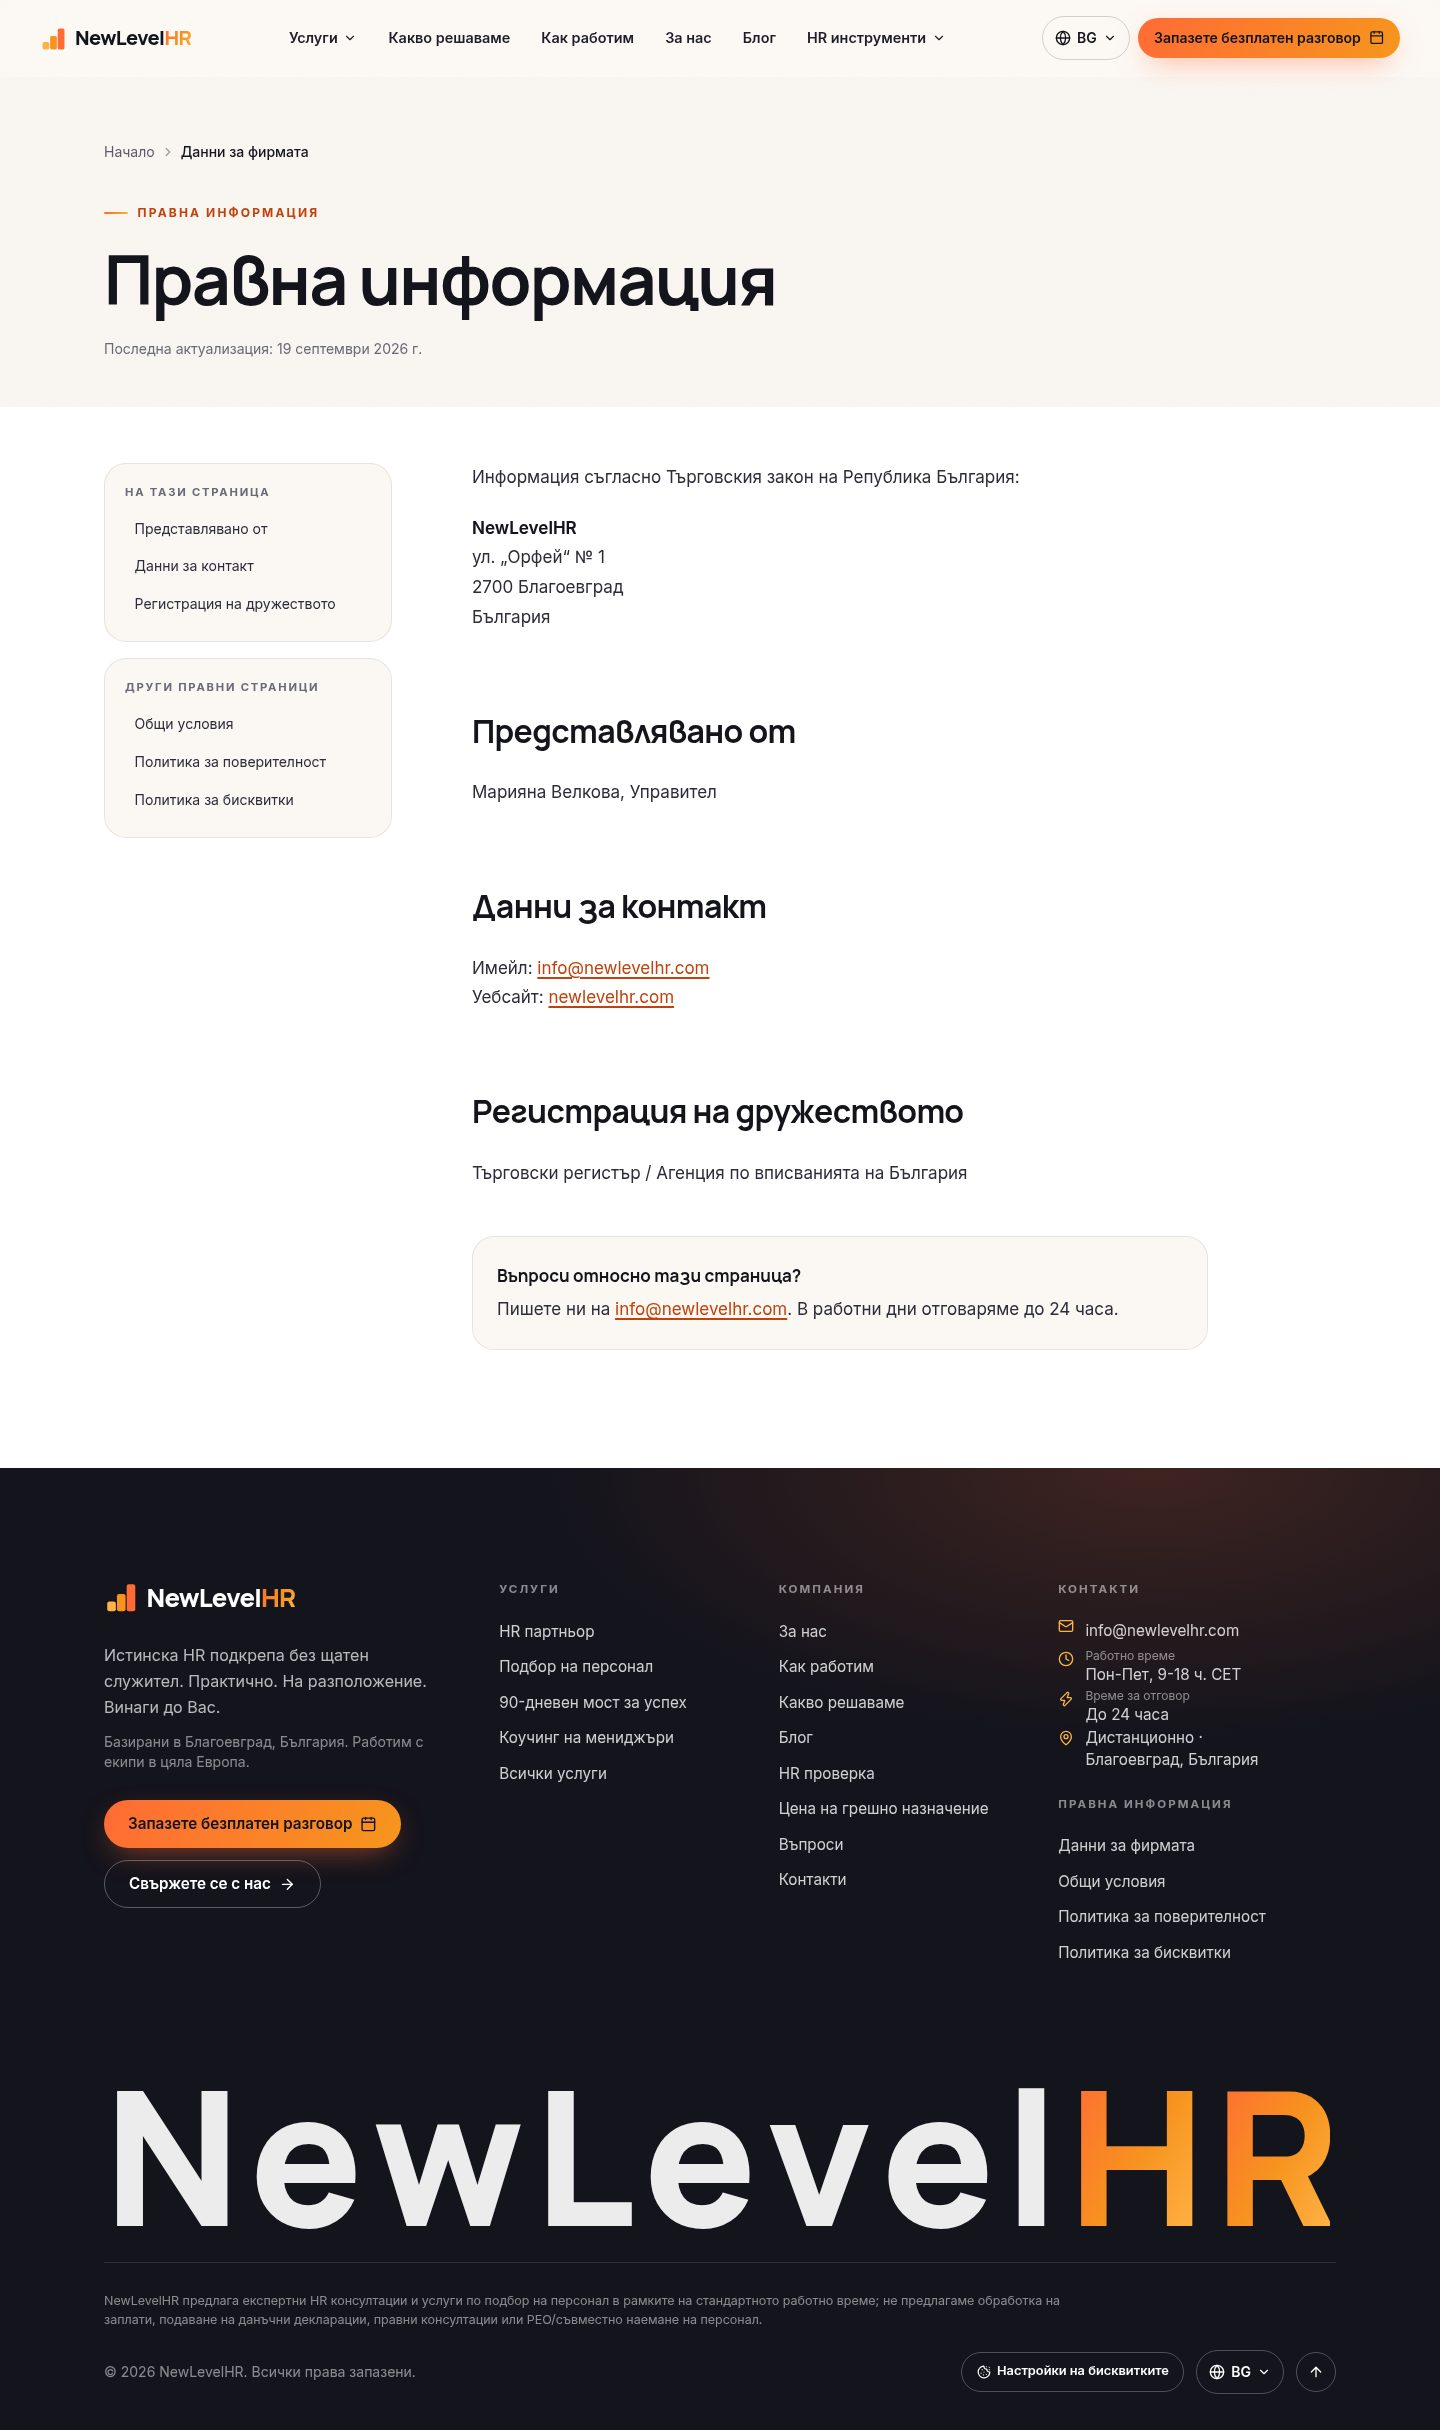
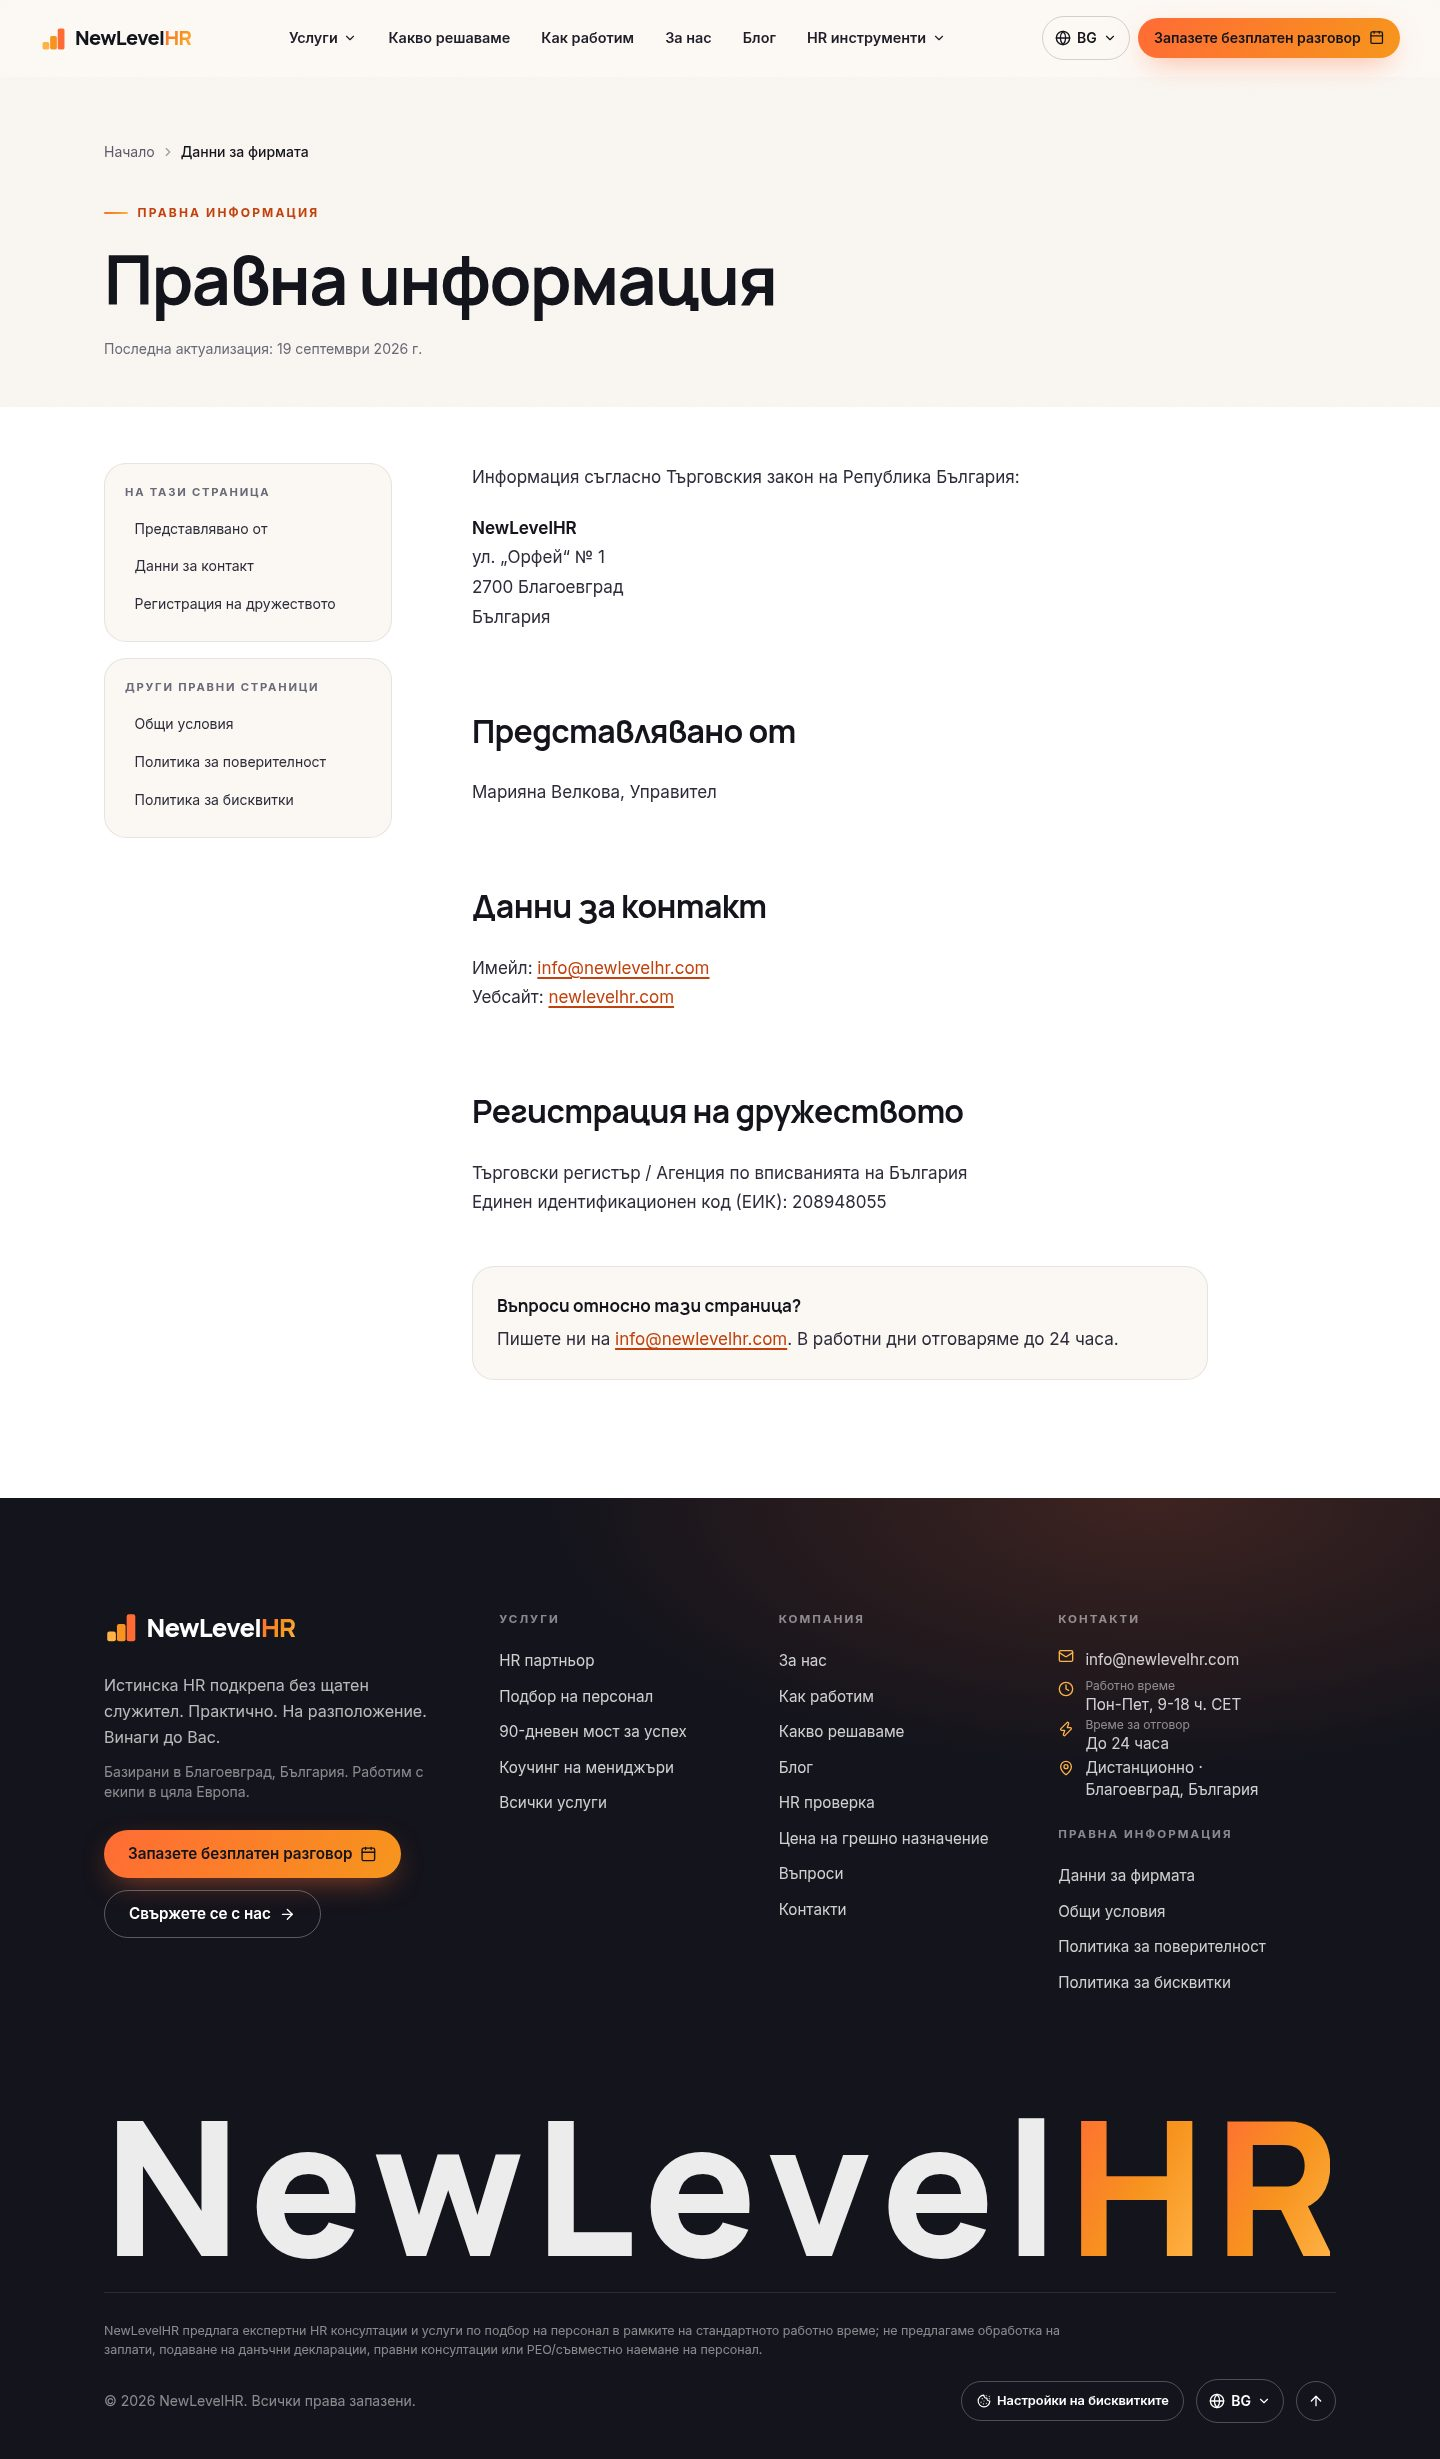
Add the company registration number and the booking calendar
The legal notice now shows the EIK in English, German and Bulgarian, and the
"last updated" date of the legal pages is moved forward.

The booking link points at the real Calendly event by default, so the
contact page embeds the calendar without any build setting. The
Content-Security-Policy in .htaccess now allows the Calendly widget
(script, style and images from assets.calendly.com); without it the
browser blocked the widget on the Apache host.

The PHP hosting notes ask for PHP 8.1, which the form endpoint needs.

diff --git a/src/config/site.ts b/src/config/site.ts
@@ -28,7 +28,7 @@ export const site = {
    * at the Calendly event itself (https://calendly.com/<user>/<event>) and the
    * contact page shows the calendar inline instead of only linking out.
    */
-  bookingUrl: (env.PUBLIC_BOOKING_URL as string | undefined) || 'https://calendly.com/',
+  bookingUrl: (env.PUBLIC_BOOKING_URL as string | undefined) || 'https://calendly.com/newlevelhr-info/30min',
   formEndpoint: (env.PUBLIC_FORM_ENDPOINT as string | undefined) || '/api/contact',
   /** True once the booking link points at a specific Calendly event, not just the domain. */
   get bookingEmbedUrl(): string | null {

diff --git a/src/i18n/en/legal.ts b/src/i18n/en/legal.ts
@@ -22,7 +22,7 @@ import type { Widen } from '../types';
  */
 export const legal = {
   /** ISO date shown as "Last updated" on all four pages. */
-  updated: '2026-09-19',
+  updated: '2026-10-15',
   common: {
     eyebrow: 'Legal',
     lastUpdated: 'Last updated: {date}',
@@ -65,6 +65,7 @@ export const legal = {
         title: 'Company Registration',
         blocks: [
           { type: 'p', text: 'Commercial Register / Registry Agency of Bulgaria' },
+          { type: 'p', text: 'Unified Identification Code (UIC / EIK): 208948055' },
         ],
       },
     ],

diff --git a/src/i18n/bg/legal.ts b/src/i18n/bg/legal.ts
@@ -36,6 +36,7 @@ export const legal: LegalDict = {
         title: 'Регистрация на дружеството',
         blocks: [
           { type: 'p', text: 'Търговски регистър / Агенция по вписванията на България' },
+          { type: 'p', text: 'Единен идентификационен код (ЕИК): 208948055' },
         ],
       },
     ],

diff --git a/src/i18n/de/legal.ts b/src/i18n/de/legal.ts
@@ -36,6 +36,7 @@ export const legal: LegalDict = {
         title: 'Handelsregistereintrag',
         blocks: [
           { type: 'p', text: 'Handelsregister / Registeragentur Bulgariens' },
+          { type: 'p', text: 'Einheitlicher Identifikationscode (EIK): 208948055' },
         ],
       },
     ],

diff --git a/docs/qa/e2e.md b/docs/qa/e2e.md
@@ -1,45 +1,45 @@
 # End-to-end checks
 
-Generated 2026-10-04 13:27 UTC with `npm run qa:e2e` against `http://127.0.0.1:4181`. 39/39 passed.
+Generated 2026-10-15 17:24 UTC with `npm run qa:e2e` against `http://127.0.0.1:4181`. 39/39 passed.
 
 | Check | Result | Time |
 | --- | --- | --- |
-| root / redirects to /en/ | ✅ pass | 360 ms |
-| cookie dialog: no optional storage before consent, Accept stores analytics=true | ✅ pass | 3287 ms |
-| cookie dialog: Reject stores analytics=false and marketing=false | ✅ pass | 1453 ms |
-| cookie dialog: Configure -> save keeps the chosen categories | ✅ pass | 1444 ms |
-| footer "Cookie settings" reopens the dialog after consent | ✅ pass | 1563 ms |
-| language banner suggests German to a German browser on the English page and never redirects | ✅ pass | 3772 ms |
-| language banner stays hidden for an English browser on the English page | ✅ pass | 2090 ms |
-| language switcher sits in the header on a phone, before anything is opened | ✅ pass | 2681 ms |
-| language switcher opens the same page in DE and BG (translated slugs) | ✅ pass | 3418 ms |
-| hreflang: EN page lists en/de/bg + x-default and the DE page links back | ✅ pass | 468 ms |
-| header: mega menu opens on hover and on keyboard, closes with Escape | ✅ pass | 3440 ms |
-| header: mobile menu opens, links are focusable, closes with Escape | ✅ pass | 2617 ms |
-| header stays visible while scrolling down | ✅ pass | 3867 ms |
-| cost calculator: the track fill follows the slider | ✅ pass | 1942 ms |
-| what we fix: the problem bar is full width on phones, centres the active chip and jumps correctly | ✅ pass | 7819 ms |
-| anchors in the URL land under the sticky header | ✅ pass | 5722 ms |
-| mobile menu: the whole panel is reachable on a short phone | ✅ pass | 3806 ms |
-| contact: the topic dropdown hangs off the button and closes on an outside click | ✅ pass | 4477 ms |
-| mobile menu: services opens its sub-list first and follows the link on the second tap | ✅ pass | 4333 ms |
-| primary calls to action land on the right page | ✅ pass | 4296 ms |
-| blog: the index filters by topic and a post opens with its own canonical | ✅ pass | 2590 ms |
-| tools: each one has its own page and neither runs on the home page | ✅ pass | 2798 ms |
-| every inner page opens with the same hero: crumbs, title, CTAs, media | ✅ pass | 8164 ms |
-| cost calculator: the total stays on screen while the sliders scroll past | ✅ pass | 1518 ms |
-| first paint does not wait for the scripts: visible content is already revealed | ✅ pass | 147 ms |
-| home: the pinned 90-day bridge advances with the scroll | ✅ pass | 4600 ms |
-| language switcher: a phone tap on a language is not swallowed | ✅ pass | 1882 ms |
-| language switcher works with every script blocked | ✅ pass | 904 ms |
-| cards stay aligned when hovered while they are still sliding in | ✅ pass | 9184 ms |
-| card buttons line up whatever the length of the text above them | ✅ pass | 3750 ms |
-| skip link and landmarks exist | ✅ pass | 386 ms |
-| contact form: one page, custom topic dropdown, validation and a mocked send | ✅ pass | 5979 ms |
-| contact form: server error and rate limit are shown in the page language | ✅ pass | 5866 ms |
-| HR health check: answer every question and reach a result with a score | ✅ pass | 12733 ms |
-| bad-hire calculator: total updates when inputs change and reset restores defaults | ✅ pass | 3231 ms |
-| FAQ search filters questions and shows an empty state | ✅ pass | 2177 ms |
-| 404: unknown URL returns status 404 and continues to the localized 404 page | ✅ pass | 1361 ms |
-| reduced motion: no smooth-scroll class, content visible immediately | ✅ pass | 280 ms |
-| view transitions keep the header working after client-side navigation | ✅ pass | 3070 ms |
+| root / redirects to /en/ | ✅ pass | 287 ms |
+| cookie dialog: no optional storage before consent, Accept stores analytics=true | ✅ pass | 3168 ms |
+| cookie dialog: Reject stores analytics=false and marketing=false | ✅ pass | 1347 ms |
+| cookie dialog: Configure -> save keeps the chosen categories | ✅ pass | 1423 ms |
+| footer "Cookie settings" reopens the dialog after consent | ✅ pass | 1556 ms |
+| language banner suggests German to a German browser on the English page and never redirects | ✅ pass | 3676 ms |
+| language banner stays hidden for an English browser on the English page | ✅ pass | 2045 ms |
+| language switcher sits in the header on a phone, before anything is opened | ✅ pass | 2651 ms |
+| language switcher opens the same page in DE and BG (translated slugs) | ✅ pass | 4199 ms |
+| hreflang: EN page lists en/de/bg + x-default and the DE page links back | ✅ pass | 366 ms |
+| header: mega menu opens on hover and on keyboard, closes with Escape | ✅ pass | 3444 ms |
+| header: mobile menu opens, links are focusable, closes with Escape | ✅ pass | 2510 ms |
+| header stays visible while scrolling down | ✅ pass | 3480 ms |
+| cost calculator: the track fill follows the slider | ✅ pass | 1881 ms |
+| what we fix: the problem bar is full width on phones, centres the active chip and jumps correctly | ✅ pass | 7701 ms |
+| anchors in the URL land under the sticky header | ✅ pass | 5711 ms |
+| mobile menu: the whole panel is reachable on a short phone | ✅ pass | 3832 ms |
+| contact: the topic dropdown hangs off the button and closes on an outside click | ✅ pass | 4909 ms |
+| mobile menu: services opens its sub-list first and follows the link on the second tap | ✅ pass | 4393 ms |
+| primary calls to action land on the right page | ✅ pass | 3851 ms |
+| blog: the index filters by topic and a post opens with its own canonical | ✅ pass | 2554 ms |
+| tools: each one has its own page and neither runs on the home page | ✅ pass | 2796 ms |
+| every inner page opens with the same hero: crumbs, title, CTAs, media | ✅ pass | 8527 ms |
+| cost calculator: the total stays on screen while the sliders scroll past | ✅ pass | 1586 ms |
+| first paint does not wait for the scripts: visible content is already revealed | ✅ pass | 143 ms |
+| home: the pinned 90-day bridge advances with the scroll | ✅ pass | 4620 ms |
+| language switcher: a phone tap on a language is not swallowed | ✅ pass | 1790 ms |
+| language switcher works with every script blocked | ✅ pass | 849 ms |
+| cards stay aligned when hovered while they are still sliding in | ✅ pass | 9358 ms |
+| card buttons line up whatever the length of the text above them | ✅ pass | 3809 ms |
+| skip link and landmarks exist | ✅ pass | 358 ms |
+| contact form: one page, custom topic dropdown, validation and a mocked send | ✅ pass | 6180 ms |
+| contact form: server error and rate limit are shown in the page language | ✅ pass | 6004 ms |
+| HR health check: answer every question and reach a result with a score | ✅ pass | 12411 ms |
+| bad-hire calculator: total updates when inputs change and reset restores defaults | ✅ pass | 3191 ms |
+| FAQ search filters questions and shows an empty state | ✅ pass | 2175 ms |
+| 404: unknown URL returns status 404 and continues to the localized 404 page | ✅ pass | 1333 ms |
+| reduced motion: no smooth-scroll class, content visible immediately | ✅ pass | 256 ms |
+| view transitions keep the header working after client-side navigation | ✅ pass | 3043 ms |

diff --git a/README.md b/README.md
@@ -149,7 +149,11 @@ from the file extension, and its `runtime` key would have to be an npm package w
 3. Configure the form recipient either through environment variables (`CONTACT_TO`, `CONTACT_FROM`,
    `CONTACT_TOKEN`) or by copying `contact.config.example.php` to `contact.config.php` next to
    `contact.php` and editing it.
-4. Make sure PHP 8 and the `mail()` function are available on the host.
+4. Make sure the host runs PHP 8.1 or newer and that `mail()` works. `CONTACT_FROM` must be a mailbox on the
+   same domain, otherwise most hosts drop the message.
+5. `public/.htaccess` allows the Calendly widget (`assets.calendly.com` for script, style and images, and
+   `calendly.com` for the frame). Any other third-party script has to be added to its
+   `Content-Security-Policy` line first, or the browser blocks it.
 
 ### Any other static host
 
